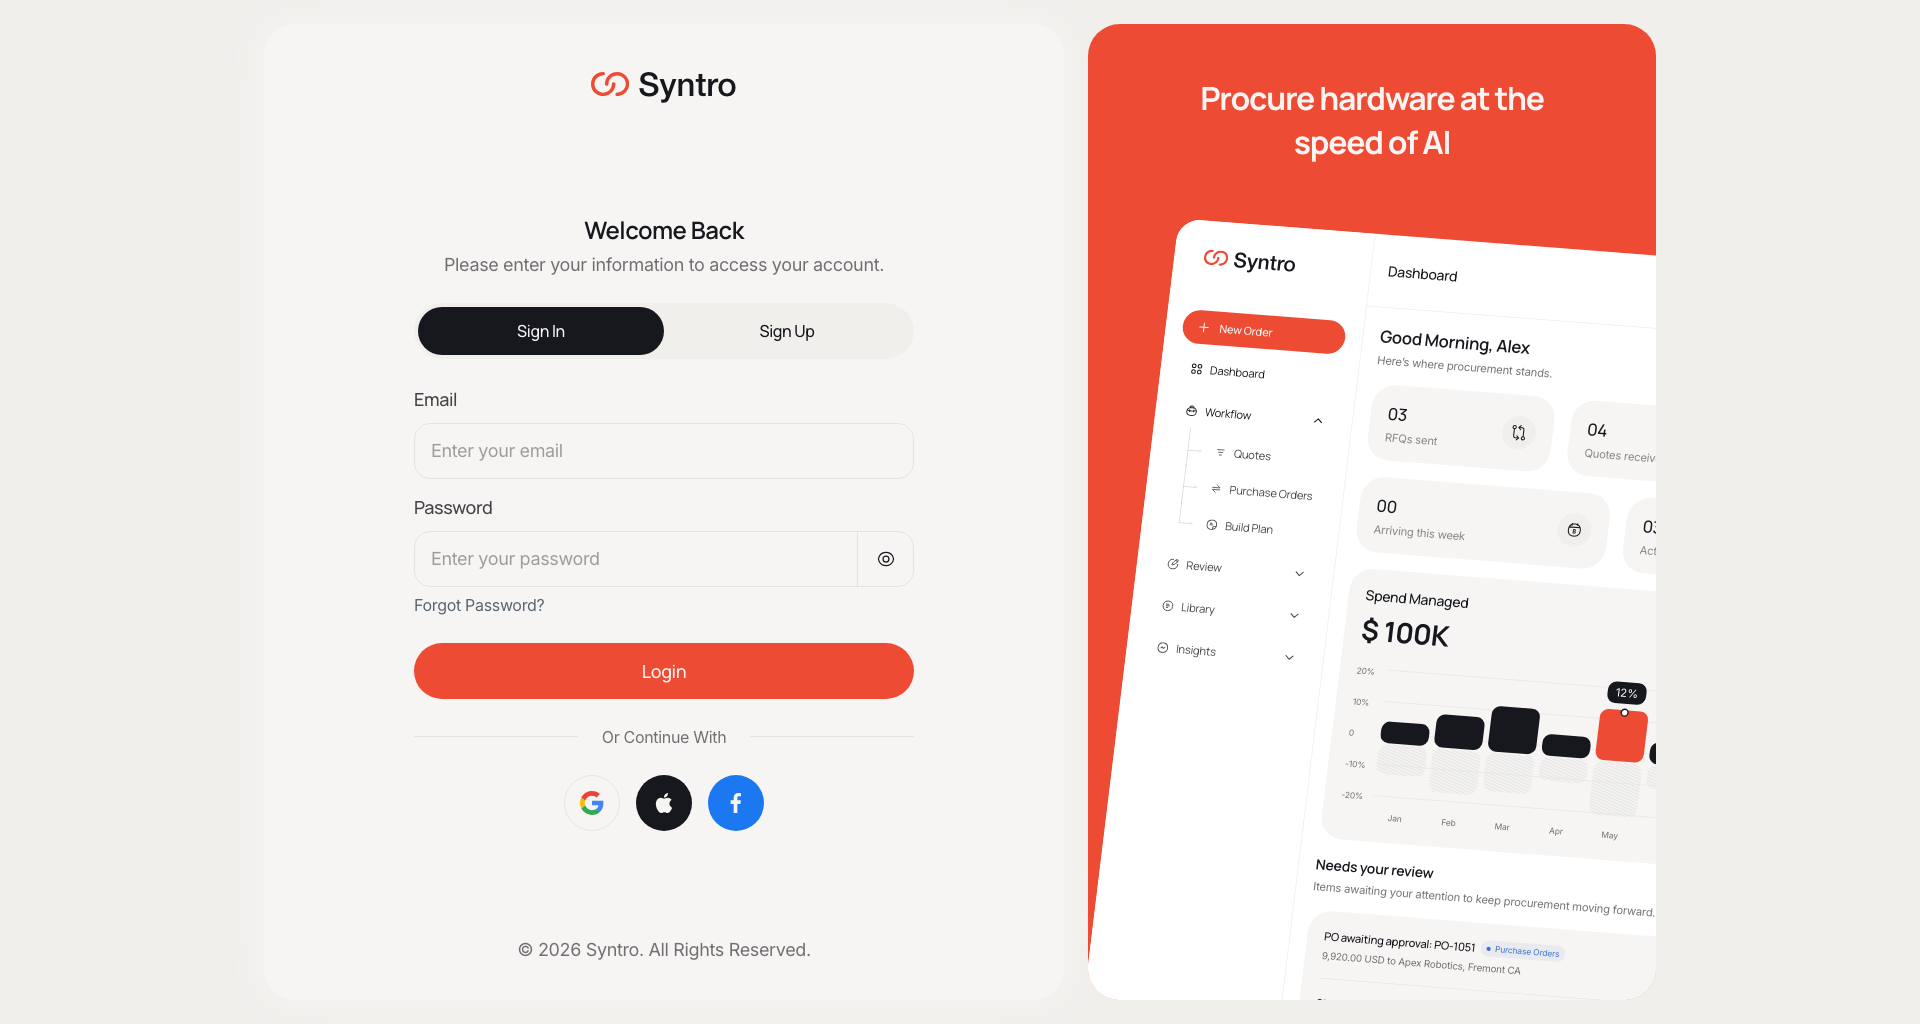
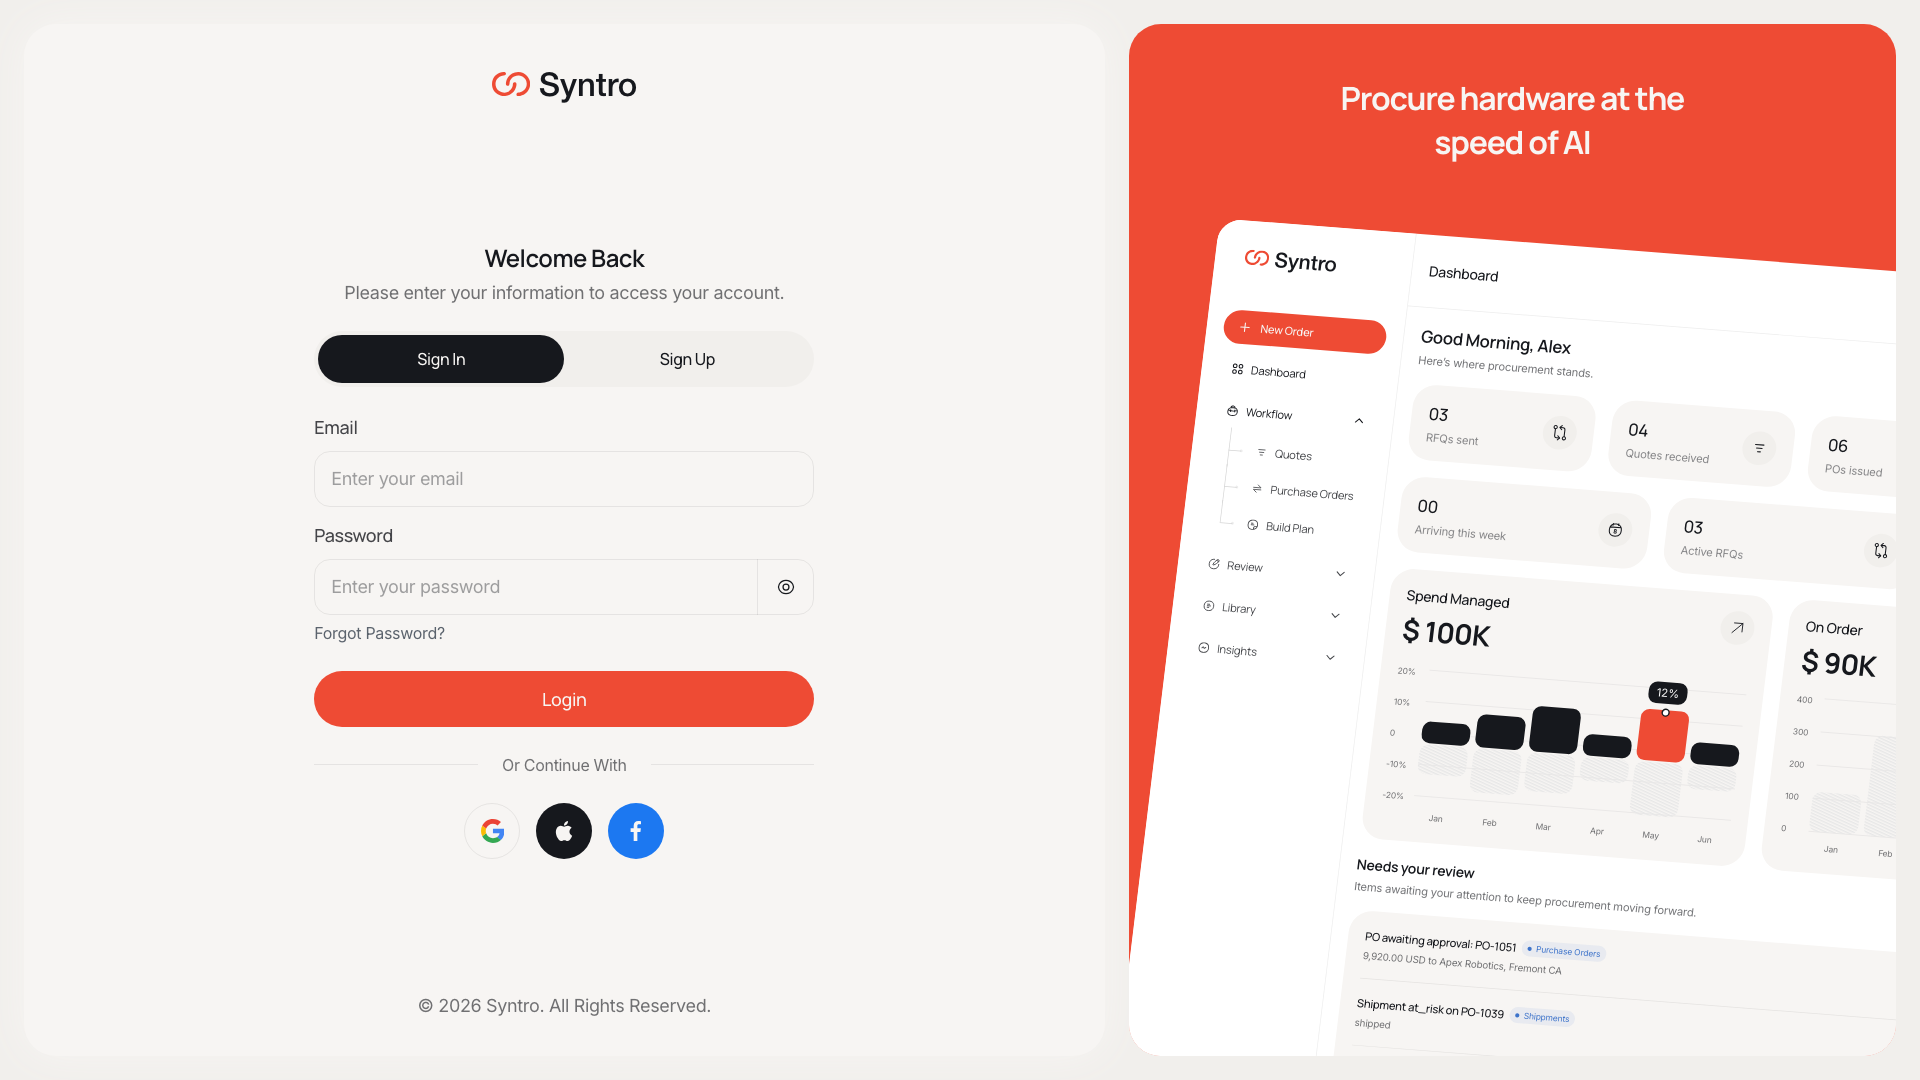
fix(layout): fill the viewport on auth screens and keep Figma's 800:568 panel ratio
Claude-Session: https://claude.ai/code/session_01X2eGTJfs1Ef3NLYEhEH8sb

diff --git a/src/components/layout/AuthLayout.tsx b/src/components/layout/AuthLayout.tsx
@@ -8,15 +8,19 @@ export interface AuthLayoutProps {
   children: ReactNode;
 }
 
-/** Two-panel auth shell (1:2465): paper form card + vermilion promo panel on a surface canvas. */
+/**
+ * Two-panel auth shell (1:2465): paper form card + vermilion promo panel on a surface canvas.
+ * Both panels fill the viewport height and share the width in Figma's 800:568 ratio, so a
+ * 1440×1024 viewport reproduces the frame exactly and wider screens keep the same proportions.
+ */
 export function AuthLayout({ preview, children }: AuthLayoutProps) {
   return (
-    <div className="flex min-h-screen items-stretch justify-center gap-6 bg-canvas p-6">
-      {/* px-[150px] is a one-off from Figma (form column 500px inside an 800px card). */}
-      <section className="flex min-h-auth-panel w-full max-w-auth-card flex-col items-center justify-between rounded-2xl bg-paper px-6 py-10 shadow-card sm:px-12 xl:px-[150px]">
+    <div className="flex min-h-screen items-stretch gap-6 bg-canvas p-6">
+      {/* px-[150px] is a one-off from Figma (form column 500px inside an 800px card); below 1440 the padding relaxes so the 500px form keeps its width. */}
+      <section className="flex min-w-0 flex-1 flex-col items-center justify-between rounded-2xl bg-paper px-6 py-10 shadow-card sm:px-12 xl:flex-[800_1_800px] 2xl:px-[150px]">
         {children}
       </section>
-      <AuthPromoPanel preview={preview} className="hidden xl:flex" />
+      <AuthPromoPanel preview={preview} className="hidden xl:flex xl:flex-[568_1_568px]" />
     </div>
   );
 }

diff --git a/src/components/layout/AuthPromoPanel.tsx b/src/components/layout/AuthPromoPanel.tsx
@@ -11,12 +11,7 @@ export interface AuthPromoPanelProps {
 /** Vermilion marketing panel (1:2466) with the headline and room for the dashboard preview. */
 export function AuthPromoPanel({ preview, className }: AuthPromoPanelProps) {
   return (
-    <aside
-      className={cn(
-        'min-h-auth-panel relative w-promo shrink-0 flex-col overflow-hidden rounded-2xl bg-vermilion',
-        className,
-      )}
-    >
+    <aside className={cn('relative flex-col overflow-hidden rounded-2xl bg-vermilion', className)}>
       <h2 className="absolute left-1/2 top-[52px] w-[350px] -translate-x-1/2 text-center font-display text-3xl font-bold text-paper">
         Procure hardware at the <br />
         speed of AI
